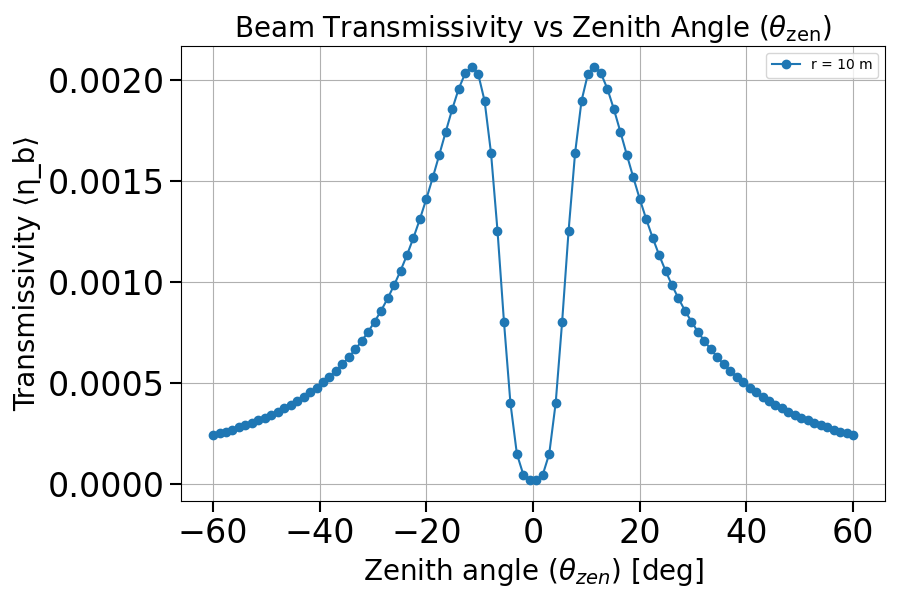
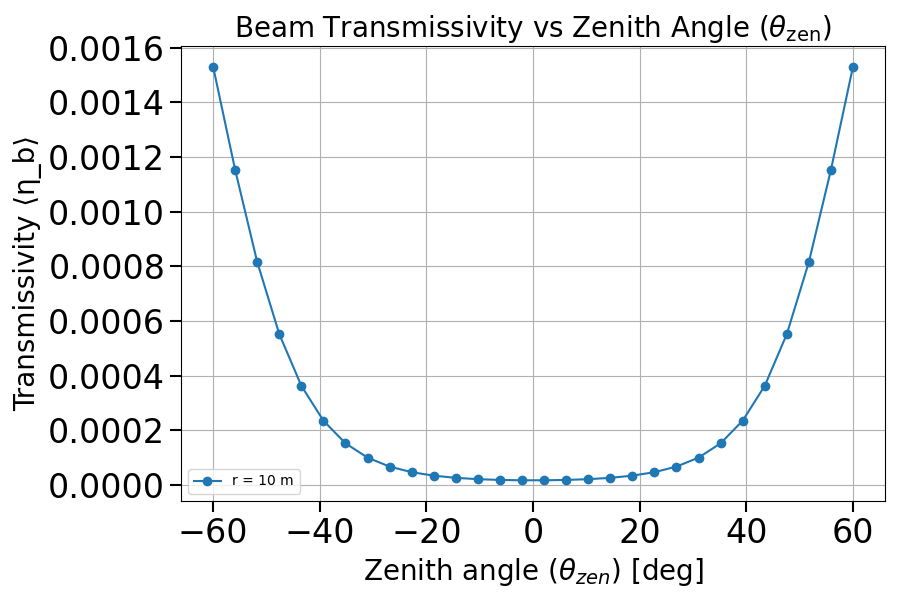
modify the LoS distance func and simulate transmittance

diff --git a/BB84/SimulationResult/Circle_beam/Transmittance/gamma_displacement_zenith_angle.py b/BB84/SimulationResult/Circle_beam/Transmittance/gamma_displacement_zenith_angle.py
@@ -27,38 +27,30 @@ from atmospheric_transmissivity import transmissivity_etat
     # M_T : Earth's mass
     # D_E : Earth's radius (km)
     # h_s : Satellite's altitude
+    # H_a : Receiver's altitude
     #======================#
 a = 0.75               
 G = 6.67430e-11       
 M_T = 5.972e24      
 D_E = 6378e3       
 h_s = 500e3       
+H_a = 0.01
+
 
 d_o = D_E + h_s
 omega = math.sqrt(G * M_T / d_o**3)
 T = 2 * math.pi / omega
 t = T * 0.0             # Time in orbit of the satellite (the time elapsed when the satellite moves from the reference point)
 
-def calculate_theta_deg_from_Rt(R_t):
-    cos_theta = (D_E**2 + d_o**2 - R_t**2) / (2 * D_E * d_o)
-    
-    if abs(cos_theta) > 1:
-        raise ValueError("その距離は物理的に実現不可能です。値を確認してください。")
-
-    # θ_p [rad] → [deg]
-    theta_p_rad = math.acos(cos_theta)
-    theta_p_deg = math.degrees(theta_p_rad)
-    
-    return theta_p_deg
 
 def main():
     r = np.arange(0, 7, 0.5)
 
     # --- θ_p の範囲設定 ---
     theta_min = math.radians(0)     # 0°
-    theta_max = math.radians(10)    # 10°
-    theta_list = np.linspace(theta_min, theta_max, 5)
-    t_list = [theta / omega for theta in theta_list]
+    theta_max = math.radians(70)    # 10°
+    theta_list = np.linspace(theta_min, theta_max, 7)
+    # t_list = [theta / omega for theta in theta_list]
 
     # --- 大気損失設定（例としてtau_zen = 0.91だけ使用） ---
     tau_zen = 0.91
@@ -66,16 +58,16 @@ def main():
     # --- プロット ---
     plt.figure(figsize=(9, 6))
 
-    for t in t_list:
+    for theta_zen_rad in theta_list:
         # 衛星-地上間距離
-        R_t = satellite_ground_distance(h_s, t)
+        L_a = satellite_ground_distance(h_s, H_a, theta_zen_rad)
         # ビームウエスト計算
-        waist = beam_waist(h_s, t)
+        waist = beam_waist(h_s, H_a, theta_zen_rad)
         # 現在の時刻tにおける天頂角 [deg]
-        theta_deg = omega * t * 180 / math.pi
+        # theta_zen_deg = omega * t * 180 / math.pi
 
         # 大気損失
-        eta_t = transmissivity_etat(tau_zen, theta_deg)
+        eta_t = transmissivity_etat(tau_zen, theta_zen_rad)
 
         # ビーム拡がりロス
         eta_b = [transmissivity_etab(a, r_val, waist) for r_val in r]
@@ -83,14 +75,12 @@ def main():
         # 総合損失
         gamma = [eta_b_i * eta_t * 100 for eta_b_i in eta_b]
 
-        # QBER計算 (パーセントに変換)
-        # qber_values = [qber_loss(gamma_i) * 100 for gamma_i in gamma]
 
-        # QBER表示（オプション）
-        print(f"\n--- θ_p = {theta_deg:.2f}° (R={R_t/1e3:.2f} km) ---")
+        theta_zen_deg = math.degrees(theta_zen_rad)
+        
+        print(f"\n--- θ_p = {theta_zen_deg:.2f}° (R={L_a/1e3:.2f} km) ---")
        
-        # グラフ
-        plt.plot(r, gamma, marker='o', label=fr'$\theta_{{zen}}$={theta_deg:.1f}° (R={R_t/1e3:.1f} km)')
+        plt.plot(r, gamma, marker='o', label=fr'$\theta_{{zen}}$={theta_zen_deg:.1f}° (R={L_a/1e3:.1f} km)')
 
     # --- グラフ仕上げ ---
     plt.xlabel(r"Beam centroid displacement $r$ [m]", fontsize=20)
@@ -103,7 +93,7 @@ def main():
     plt.tight_layout()
 
     # --- 保存 & 表示 ---
-    output_path = os.path.join(os.path.dirname(__file__), "gamma_vs_displacement _plot.png")
+    output_path = os.path.join(os.path.dirname(__file__), "gamma_vs_displacement_plot.png")
     plt.savefig(output_path)
     print(f"✅ Saved as: {output_path}")
     plt.show()

diff --git a/BB84/SimulationResult/Circle_beam/QBER/qber_displacement.py b/BB84/SimulationResult/Circle_beam/QBER/qber_displacement.py
@@ -28,12 +28,14 @@ tau_zen = 0.91
     # M_T : Earth's mass
     # D_E : Earth's radius (km)
     # h_s : Satellite's altitude
+    # H_a : Receiver's a;titude
     #======================#
 a = 0.75               
 G = 6.67430e-11       
 M_T = 5.972e24      
 D_E = 6378e3       
 h_s = 500e3       
+H_a = 0.01
 
 d_o = D_E + h_s
 omega = math.sqrt(G * M_T / d_o**3)
@@ -57,24 +59,22 @@ e_dec = 0.01
 
 
 
+
 def main():
     r = np.arange(0, 7, 0.5) 
 
     theta_min = math.radians(0)
-    theta_max = math.radians(10)
+    theta_max = math.radians(70)
     theta_list = np.linspace(theta_min, theta_max, 5)
-
-    t_list = [theta / omega for theta in theta_list]
 
     plt.figure(figsize=(9, 6))
 
-    for t in t_list:
+    for theta_zen_rad in theta_list:
         # 距離 R(t)
-        R_t = satellite_ground_distance(h_s, t)
-        waist = beam_waist(h_s, t)
+        L_a = satellite_ground_distance(h_s, H_a, theta_zen_rad)
+        waist = beam_waist(h_s, H_a, theta_zen_rad)
 
-        theta_deg = omega * t * 180 / math.pi
-        eta_t = transmissivity_etat(tau_zen, theta_deg)
+        eta_t = transmissivity_etat(tau_zen, theta_zen_rad)
 
         # Transmissivity 計算
         eta_b = [transmissivity_etab(a, r_val, waist) for r_val in r]
@@ -85,13 +85,13 @@ def main():
         # QBER = qber(gamma)
         qber_values = [qber_loss(gamma_i) * 100 for gamma_i in gamma]
 
-        # QBERの値を表示
-        print(f"\n--- θ_p = {theta_deg:.2f}° (R={R_t/1e3:.2f} km, eta_t={eta_t:.4f}) ---")
+        theta_zen_deg = np.degrees(theta_zen_rad)
+
+        print(f"\n--- θ_p = {theta_zen_deg:.2f}° (R={L_a/1e3:.2f} km, eta_t={eta_t:.4f}) ---")
         for i in range(len(r)):
             print(f'Gamma: {gamma[i]:.5e}, r={r[i]:.1f} m → QBER = {qber_values[i]}')
 
-        # グラフ描画
-        plt.plot(r, qber_values, marker='o', label=fr'$\theta_{{zen}}$={theta_deg:.1f}° (R={R_t/1e3:.1f} km)')
+        plt.plot(r, qber_values, marker='o', label=fr'$\theta_{{zen}}$={theta_zen_deg:.1f}° (R={L_a/1e3:.1f} km)')
 
     plt.xlabel(f"Beam centroid displacement r (m), (a = {a}m)", fontsize=20)
     plt.ylabel(r"QBER (Quantum Bit Error Rate) [%]", fontsize=20)

diff --git a/BB84/Model/beam_waist.py b/BB84/Model/beam_waist.py
@@ -15,44 +15,35 @@ a = 0.75
 G = 6.67430e-11         # Gravitational constant
 M_T = 5.972e24          # Earth's mass
 D_E = 6378e3             # Earth's radius (km)
+H_g = 0.01
 #=======================================================#
 
 #=======================================================#
 # Beam waist function
 #=======================================================#
-def beam_waist(h_s, t):
-    r_t = satellite_ground_distance(h_s, t)
+def beam_waist(h_s, H_a, theta_zen_rad):
+    L_a = satellite_ground_distance(h_s, H_a, theta_zen_rad)
     theta_d = 10e-6  # divergence angle(mrad)
-    waist = r_t * theta_d
+    waist = L_a * theta_d
     return waist
+
 
 #=======================================================#
 # The distance between satellite and ground station
-# h_s : Satellite's altitude
-# t: time
+# h_s       : Satellite's altitude
+# theta_zen : Zenith angle
 #=======================================================#
-# def satellite_ground_distance(h_s, t): 
-#     d_o = D_E + h_s # orbital radius
-#     omega = math.sqrt(G * M_T / d_o**3)
-#     d_t = math.sqrt(D_E**2 + d_o**2 - 2 * D_E * d_o * math.cos(omega * t))
-#     return d_t
-
-def satellite_ground_distance(h_s, theta_zen):
-    theta_rad = math.radians(theta_zen)
-    return h_s / math.cos(theta_rad)
-
+def satellite_ground_distance(h_s, H_g, theta_zen_rad):
+    return (h_s - H_g) / math.cos(theta_zen_rad)
 
 def main():
     # =======Definition of parameter =========== #
     h_s = 500e3 # (km)
+    theta_zen_rad = math.radians(7.5)
     #====================================#
-    # Need to be modify
-    d_o = D_E + h_s
-    omega = math.sqrt(G * M_T / d_o**3)
-    T = 2 * math.pi / omega
-    t = T * 0.03  # 周回の1/4周（90°移動）
-    #====================================#
-    waist = beam_waist(h_s, t)
+    L_a = satellite_ground_distance(h_s, H_g, theta_zen_rad)
+    print(f'LoS distance: {L_a/1e3:.1f} km')
+    waist = beam_waist(h_s, theta_zen_rad)
     print(f'Beam waist: {waist}')
 
 if __name__ == '__main__':

diff --git a/BB84/SimulationResult/Circle_beam/Pointing/transmissivity_b_displacement.py b/BB84/SimulationResult/Circle_beam/Pointing/transmissivity_b_displacement.py
@@ -16,6 +16,7 @@ d_o = D_E + h_s
 omega = math.sqrt(G * M_T / d_o**3)
 T = 2 * math.pi / omega
 t = T * 0.0           # 周回時間
+H_a = 0.01
 
 def main():
     # ======= 定義 =========== #
@@ -25,33 +26,31 @@ def main():
 
 
     # θ_pの範囲（ラジアン）
-    theta_min = math.radians(0)
-    theta_max = math.radians(10)
-    theta_list = np.linspace(theta_min, theta_max, 5)  # プロットする角度数（5本）
+    theta_min = math.radians(10)
+    theta_max = math.radians(70)
+    theta_list = np.linspace(theta_min, theta_max, 7)  # プロットする角度数（5本）
 
     plt.figure(figsize=(9, 6))
 
-    for theta_rad in theta_list:
-        # 角度→時間へ
-        t = theta_rad / omega
+    for theta_zen_rad in theta_list:
         # LoS distance
-        R_t = satellite_ground_distance(h_s, t)
+        L_a = satellite_ground_distance(h_s, H_a, theta_zen_rad)
         # ビームウエスト計算
-        waist = beam_waist(h_s, t)
+        waist = beam_waist(h_s, theta_zen_rad)
         # 各rでの eta_b 計算
         eta_b = [transmissivity_etab(a, r_val, waist) for r_val in r]
         # zenith angle [deg]
-        theta_deg = math.degrees(theta_rad)
+        theta_deg = math.degrees(theta_zen_rad)
 
         # プロット
-        plt.plot(r, eta_b, marker='o', label=fr'$\theta_{{zen}}$={theta_deg:.1f}° (R={R_t/1e3:.1f} km)')
+        plt.plot(r, eta_b, marker='o', label=fr'$\theta_{{zen}}$={theta_deg:.1f}° (LoS={L_a/1e3:.1f} km)')
 
     print("===============================\n")
 
     # グラフ装飾
     plt.xlabel(f"Beam centroid displacement r [m] (a={a}m)", fontsize=20)
     plt.ylabel("Transmissivity ⟨η_b⟩", fontsize=20)
-    plt.title("Circle Beam Transmissivity vs Beam Displacement", fontsize=20)
+    plt.title("Beam Transmissivity vs Beam Displacement", fontsize=20)
     plt.legend(fontsize=12)
     plt.xticks(fontsize=24)
     plt.yticks(fontsize=24)

diff --git a/BB84/Model/circle_beam_transmissivity.py b/BB84/Model/circle_beam_transmissivity.py
@@ -21,7 +21,8 @@ M_T = 5.972e24          # Earth's mass
 D_E = 6378e3             # Earth's radius (km)
 #=======================================================#
 
-
+# Receiver altitude(アンテナの高さ e.g., 10m)
+H_g = 0.01
 
 #=======================================================#
 # Transmissivity nb(eta_b)
@@ -114,10 +115,10 @@ def to_decimal_string(x, precision=70):
 #=======================================================#
 # Beam waist function
 #=======================================================#
-def beam_waist(h_s, t):
-    R_t = satellite_ground_distance(h_s, t)
+def beam_waist(h_s, H_a, theta_zen_rad):
+    L_a = satellite_ground_distance(h_s, H_a, theta_zen_rad)
     theta_d = 10e-6  # divergence angle(mrad)
-    waist = R_t * theta_d
+    waist = L_a * theta_d
     return waist
 
 #=======================================================#
@@ -125,11 +126,21 @@ def beam_waist(h_s, t):
 # h_s : Satellite's altitude
 # t: time
 #=======================================================#
-def satellite_ground_distance(h_s, t): 
-    d_o = D_E + h_s # orbital radius
-    omega = math.sqrt(G * M_T / d_o**3)
-    R_t = math.sqrt(D_E**2 + d_o**2 - 2 * D_E * d_o * math.cos(omega * t))
-    return R_t
+# def satellite_ground_distance(h_s, t): 
+#     d_o = D_E + h_s # orbital radius
+#     omega = math.sqrt(G * M_T / d_o**3)
+#     R_t = math.sqrt(D_E**2 + d_o**2 - 2 * D_E * d_o * math.cos(omega * t))
+#     return R_t
+
+
+#=======================================================#
+# The distance between satellite and ground station
+# h_s       : Satellite's altitude
+# theta_zen : Zenith angle
+#=======================================================#
+def satellite_ground_distance(h_s, H_g, theta_zen_rad):
+    return (h_s - H_g) / math.cos(theta_zen_rad)
+
 
 def simulation_eta_b(h_s):
     # =======Definition of parameter =========== #

diff --git a/BB84/SimulationResult/Circle_beam/Atmospheric/transmissivity_t_displacement.py b/BB84/SimulationResult/Circle_beam/Atmospheric/transmissivity_t_displacement.py
@@ -21,18 +21,19 @@ omega = math.sqrt(G * M_T / d_o**3)
 
 def main():
     r = np.arange(0, 7, 0.5)  # Beam displacement range [m]
-    theta_min = 0
-    theta_max = 10
+    theta_min = math.radians(0)
+    theta_max = math.radians(10)
     theta_list = np.linspace(theta_min, theta_max, 5)  # Zenith angles from 0 to 10 degrees
 
     plt.figure(figsize=(9, 6))
 
-    for theta_deg in theta_list:
+    for theta_zen_rad in theta_list:
         # Calculate eta_t for each zenith angle
-        eta_t = [transmissivity_etat(tau_zen, theta_deg) for _ in r]
+        eta_t = [transmissivity_etat(tau_zen, theta_zen_rad) for _ in r]
 
+        theta_zen_deg = math.degrees(theta_zen_rad)
         # Plot the result
-        plt.plot(r, eta_t, marker='o', label=fr'$\theta_{{zen}}$={theta_deg}°')
+        plt.plot(r, eta_t, marker='o', label=fr'$\theta_{{zen}}$={theta_zen_deg}°')
 
     plt.xlabel("Beam centroid displacement r (m)", fontsize=20)
     plt.ylabel(r"Atmospheric Transmissivity $\eta_t$", fontsize=20)

diff --git a/BB84/SimulationResult/Circle_beam/Pointing/transmissivity_b_zenith_angle.py b/BB84/SimulationResult/Circle_beam/Pointing/transmissivity_b_zenith_angle.py
@@ -23,16 +23,18 @@ r_fixed_list = [10]
 
 def main():
     # 天頂角θの範囲 [°] をラジアンに変換
-    theta_deg_list = np.linspace(-60, 60, 100)
-    theta_rad_list = np.radians(theta_deg_list)
+    theta_min = math.radians(-60)
+    theta_max = math.radians(60)
+    theta_rad_list = np.linspace(theta_min, theta_max, 30)  # プロットする角度数（5本）
+    # theta_deg_list = np.linspace(-60, 60, 100)
+    theta_deg_list = np.degrees(theta_rad_list)
 
     plt.figure(figsize=(9, 6))
 
     for r_fixed in r_fixed_list:
         eta_b_list = []
-        for theta_rad in theta_rad_list:
-            t = theta_rad / omega
-            waist = beam_waist(h_s, t)
+        for theta_zen_rad in theta_rad_list:
+            waist = beam_waist(h_s, theta_zen_rad)
             eta_b = transmissivity_etab(a, r_fixed, waist)
             eta_b_list.append(eta_b)
 

diff --git a/BB84/Model/atmospheric_transmissivity.py b/BB84/Model/atmospheric_transmissivity.py
@@ -15,8 +15,7 @@ import numpy as np
 
 
 
-def transmissivity_etat(tau_zen, theta_zen_deg):
-    theta_zen_rad = math.radians(theta_zen_deg)
+def transmissivity_etat(tau_zen, theta_zen_rad):
     tau_atm = tau_zen ** (1 / math.cos(theta_zen_rad))
     return tau_atm
 
